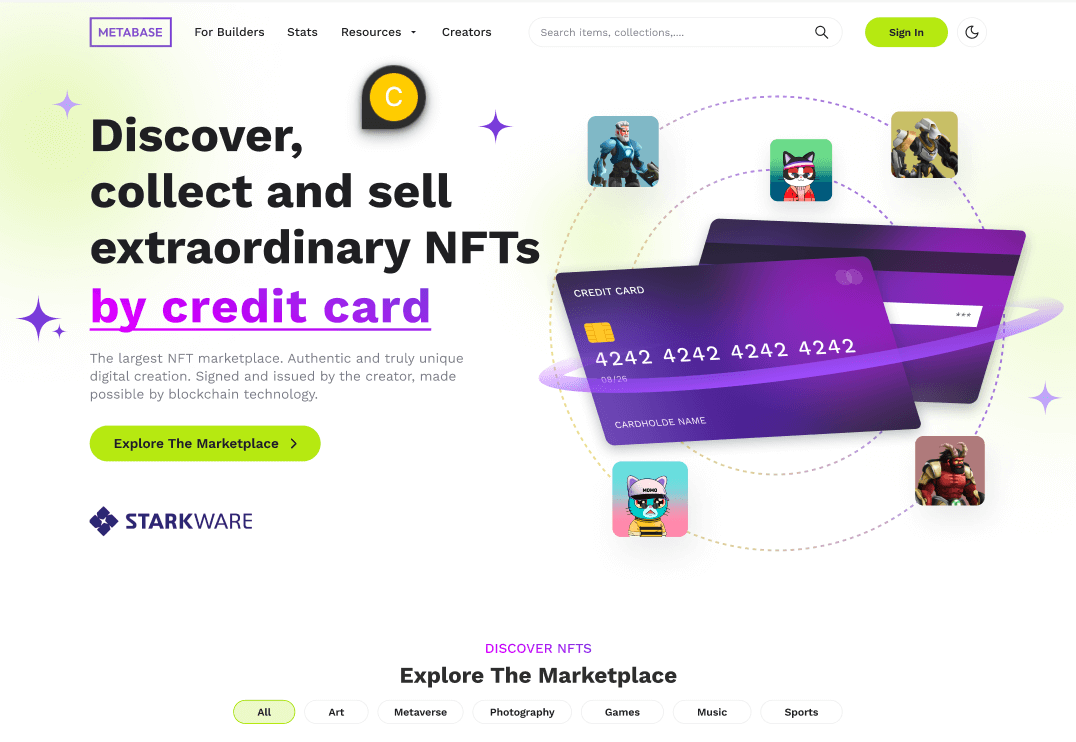
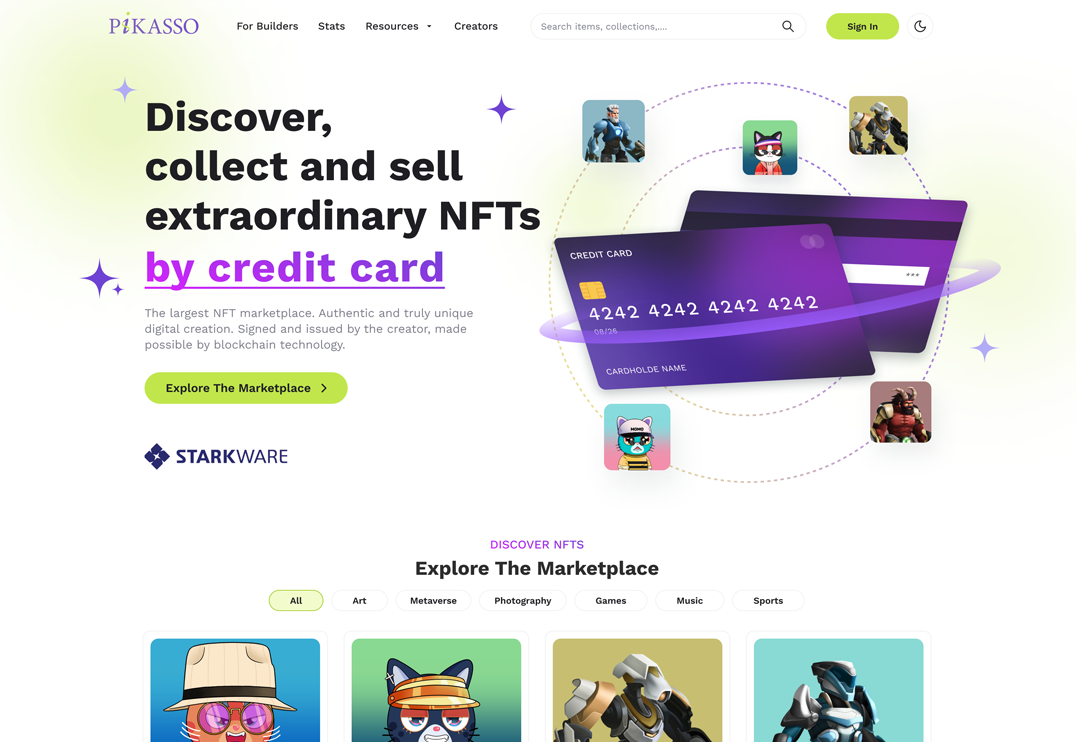
Update comment

diff --git a/works.html b/works.html
@@ -121,10 +121,8 @@
                         </div>
                         <div class="col-lg-6 ps-lg-5">
                             <div class="gb-w-item">
-                                <h4 class="gb-w-item-title" data-aos="fade-up">Firebase for NFT Apps</h4>
-                                <div class="gb-w-item-description" data-aos="fade-up" data-aos-delay="100">Pikasso has successfully received the Starkware
-                                    grant. We are on our way to developing a brand identity and other marketing
-                                    initiatives with the help of Genesis Builders.</div>
+                                <h4 class="gb-w-item-title" data-aos="fade-up">No-Code Infrastructure for NFT</h4>
+                                <div class="gb-w-item-description" data-aos="fade-up" data-aos-delay="100">Pikasso (aka Metabase before) has successfully received the Starkware grant. We are on our way to developing a brand identity and other marketing initiatives with the help of Genesis Builders.</div>
                                 <ul class="gb-w-item-features">
                                     <li data-aos="fade-up" data-aos-delay="100">Tech outsourcing</li>
                                     <li data-aos="fade-up" data-aos-delay="200">Investment consulting</li>
